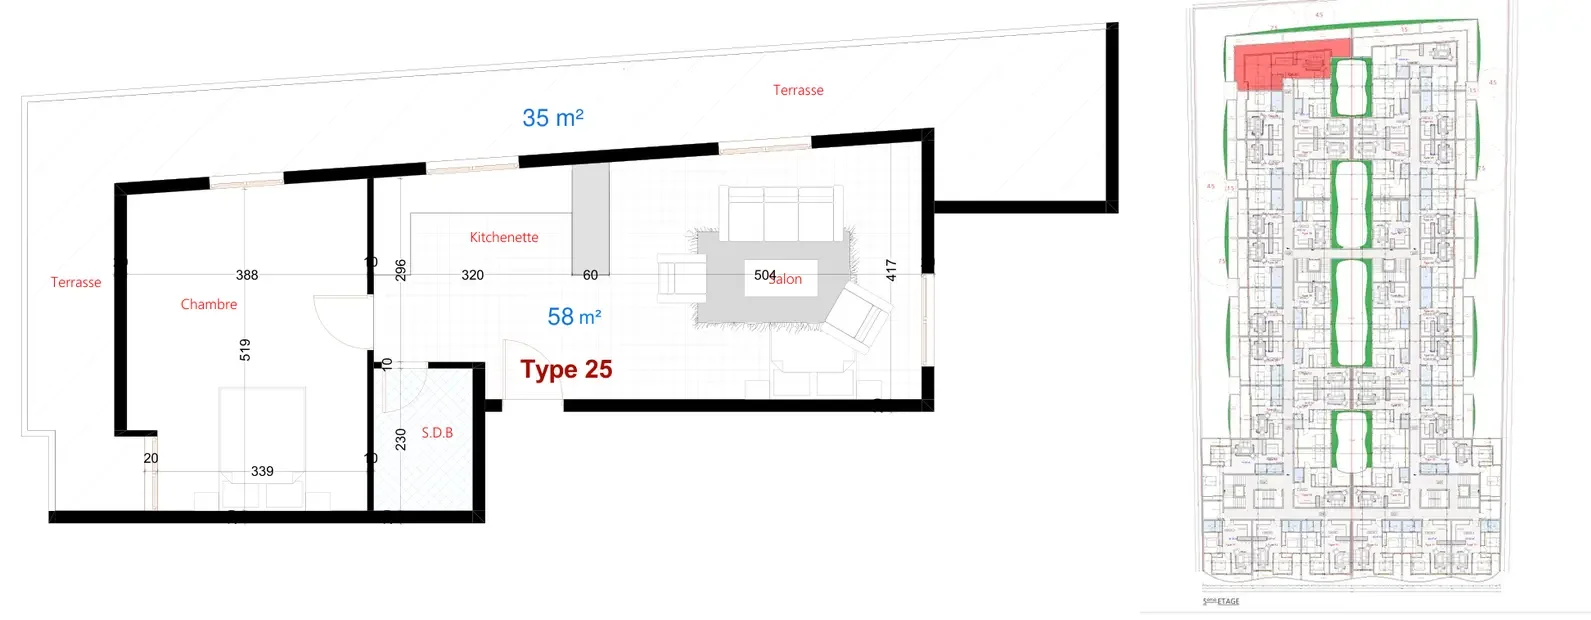
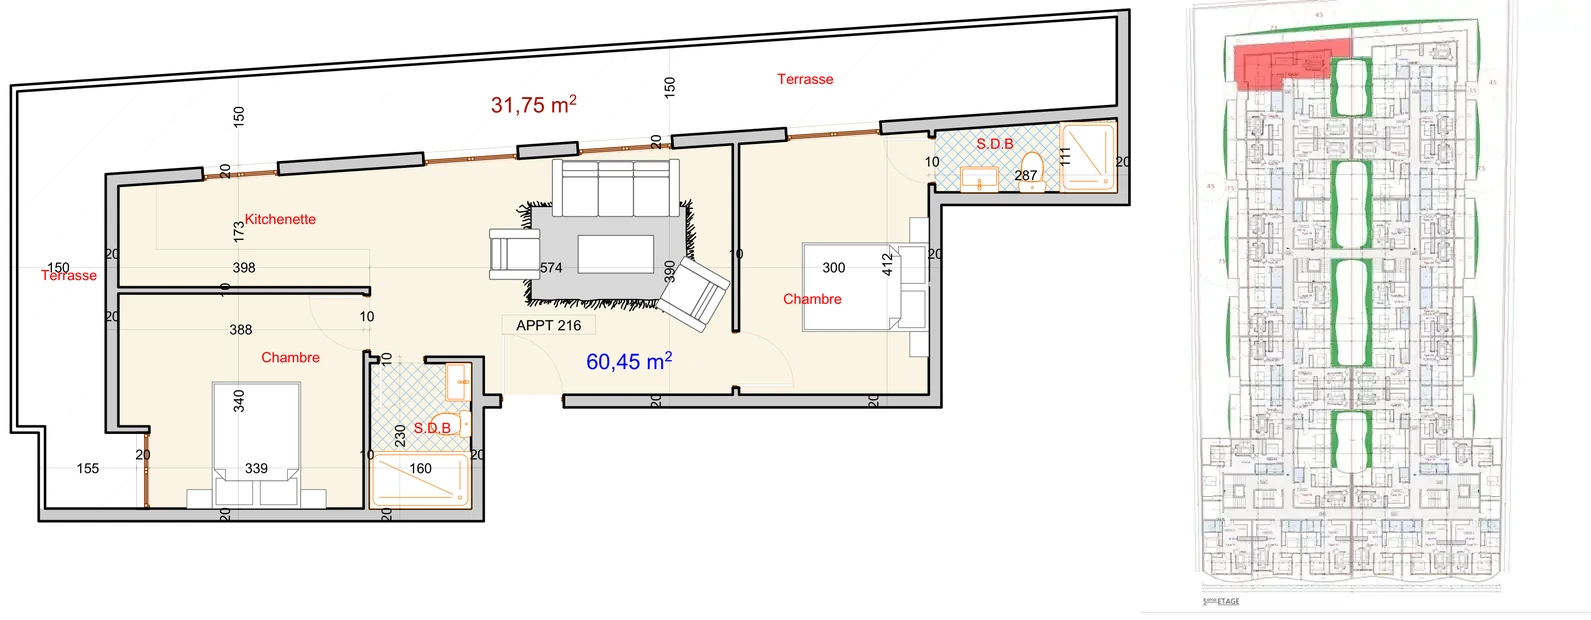
Update Vertex unit specs, APPT 216 2-bedroom plan, and missing 4th-floor terraces

Changed region(s): [[0.0, 0.0, 0.7084, 0.8581], [0.4928, 0.1226, 0.5236, 0.1532], [0.4004, 0.1226, 0.4312, 0.1532]]

diff --git a/index.html b/index.html
@@ -738,14 +738,14 @@
                   <div class="res-detail-panel absolute top-8 left-0 transition-opacity max-xl:top-10" data-index="0"
                     style="opacity:1;pointer-events:auto;transition-duration:300ms">
                     <p class="flex items-center gap-5">
-                      <span class="heading-2">53</span>
+                      <span class="heading-2">52</span>
                       <span class="paragraph text-golden inline-block max-w-20">disponibles</span>
                     </p>
                   </div>
                   <div class="res-detail-panel absolute top-8 left-0 transition-opacity max-xl:top-10" data-index="1"
                     style="opacity:0;pointer-events:none;transition-duration:300ms">
                     <p class="flex items-center gap-5">
-                      <span class="heading-2">142</span>
+                      <span class="heading-2">143</span>
                       <span class="paragraph text-golden inline-block max-w-20">disponibles</span>
                     </p>
                   </div>
@@ -766,7 +766,7 @@
                   <div class="res-detail-panel absolute top-8 left-0 transition-opacity max-xl:top-10" data-index="4"
                     style="opacity:0;pointer-events:none;transition-duration:300ms">
                     <p class="flex items-center gap-5">
-                      <span class="heading-2">49</span>
+                      <span class="heading-2">54</span>
                       <span class="paragraph text-golden inline-block max-w-20">lots</span>
                     </p>
                   </div>

diff --git a/residences.html b/residences.html
@@ -317,7 +317,7 @@
           <span class="filter-label">Prestations Clés</span>
           <div class="filter-pills">
             <button type="button" class="filter-pill" data-filter-feature="Terrasse">
-              Terrasse / Jardin (49)
+              Terrasse / Jardin (54)
             </button>
             <button type="button" class="filter-pill" data-filter-feature="Duplex RDC & Mezzanine">
               Duplex RDC &amp; Mezzanine

diff --git a/ventes.html b/ventes.html
@@ -301,7 +301,7 @@
           <span class="filter-label">Prestations Clés</span>
           <div class="filter-pills">
             <button type="button" class="filter-pill" data-filter-feature="Terrasse">
-              Terrasse / Jardin (49)
+              Terrasse / Jardin (54)
             </button>
             <button type="button" class="filter-pill" data-filter-feature="Duplex RDC & Mezzanine">
               Duplex RDC &amp; Mezzanine
